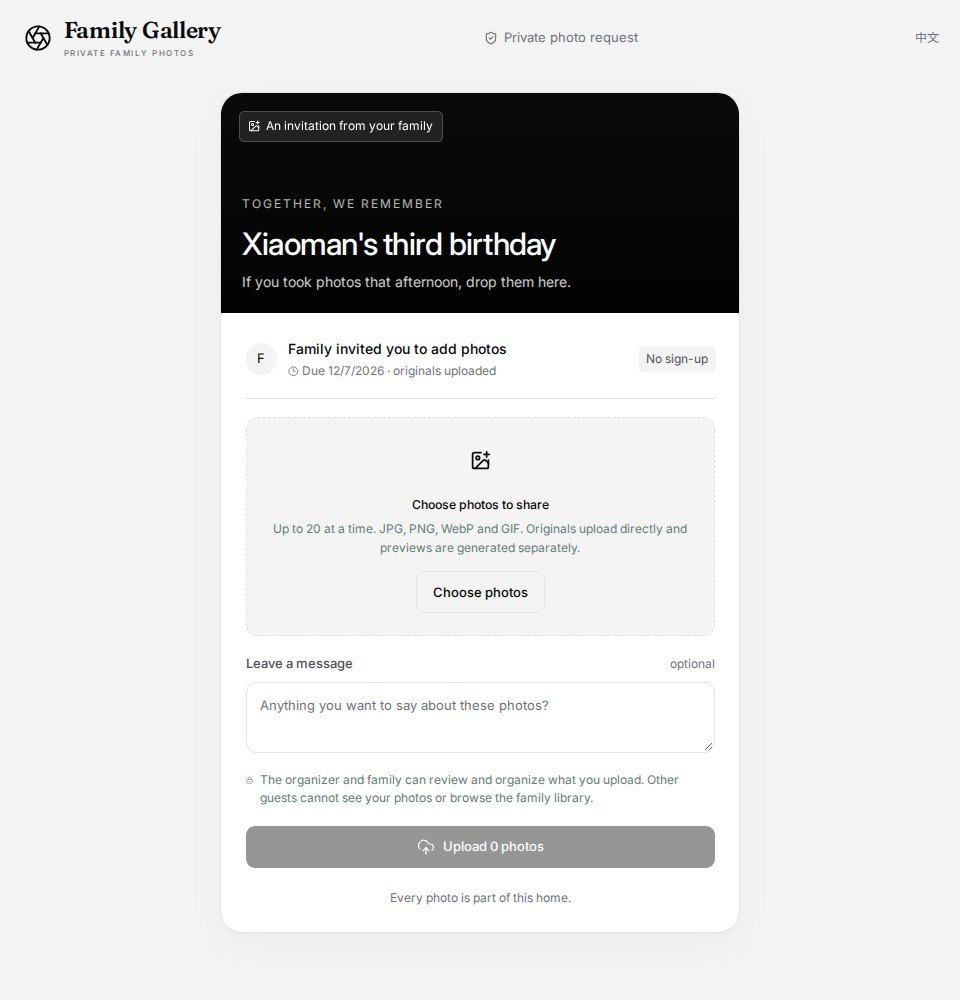
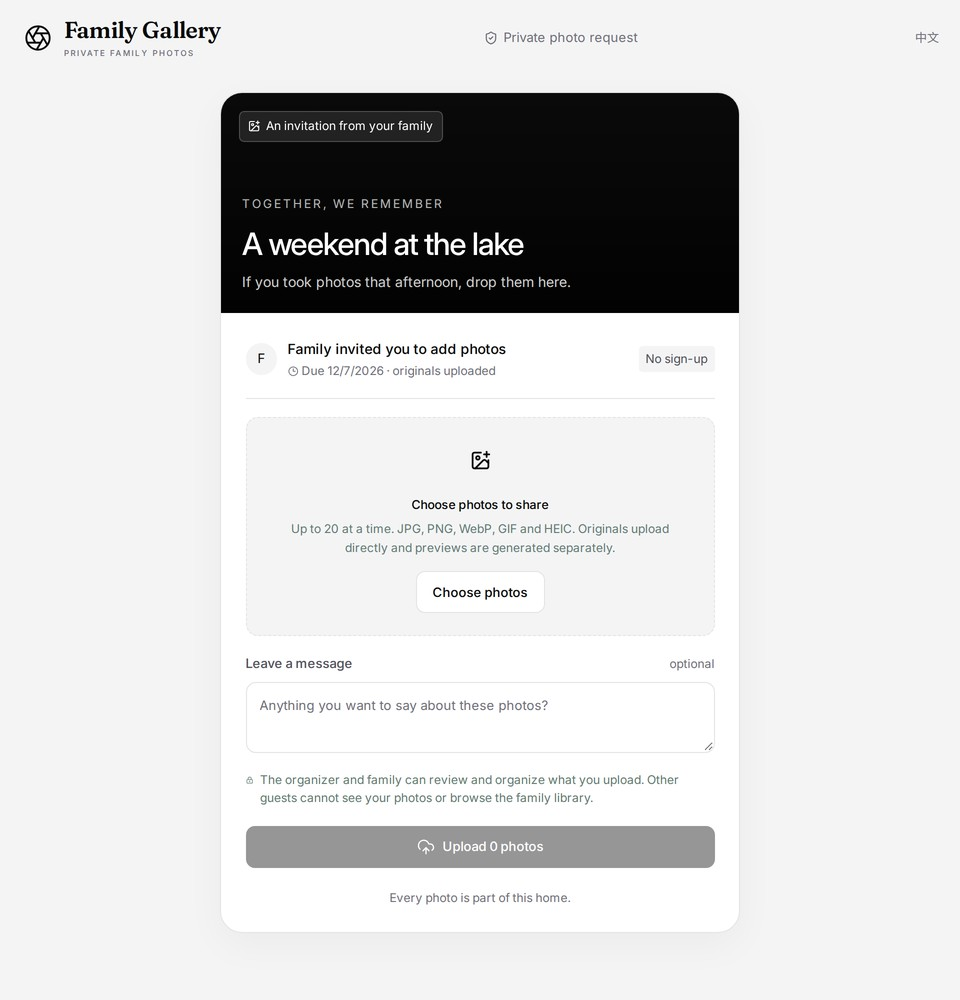
chore(docs): remove personal identifiers from examples and screenshots
The repository is public, and three artefacts leaked details that are not
needed to understand the app:

- UI placeholder used a real child's name; both locales now use a neutral
  example, so the invite screenshot could be retaken without it.
- `05-invite.jpg` showed that same name as a collection topic; recaptured
  with the same layout and a generic title.
- the release runbook pointed at one host's absolute npx cache path; it now
  asks for `$(npm root -g)` with a note to substitute your own path.

diff --git a/web/src/lib/i18n.tsx b/web/src/lib/i18n.tsx
@@ -338,7 +338,7 @@ const en: Dict = {
   'sharing.newCollection.description': 'One link so everyone can add to this memory.',
   'sharing.newCollection.failed': 'Could not create the request',
   'sharing.newCollection.topic': 'Request topic',
-  'sharing.newCollection.topicPlaceholder': 'e.g. Xiaoman\'s first birthday',
+  'sharing.newCollection.topicPlaceholder': 'e.g. A weekend at the lake',
   'sharing.newCollection.album': 'Import photos into',
   'sharing.newCollection.message': 'Invitation note',
   'sharing.newCollection.messagePlaceholder': 'Keep a copy of that moment in our album too.',
@@ -733,7 +733,7 @@ const zh: Dict = {
   'sharing.newCollection.description': '一条链接，让每个人都能补充这段回忆。',
   'sharing.newCollection.failed': '创建失败',
   'sharing.newCollection.topic': '收集主题',
-  'sharing.newCollection.topicPlaceholder': '例如：小满的周岁宴',
+  'sharing.newCollection.topicPlaceholder': '例如：周末去湖边',
   'sharing.newCollection.album': '照片收入相册',
   'sharing.newCollection.message': '邀请语',
   'sharing.newCollection.messagePlaceholder': '把那一刻，也留一份在我们的相册里。',
